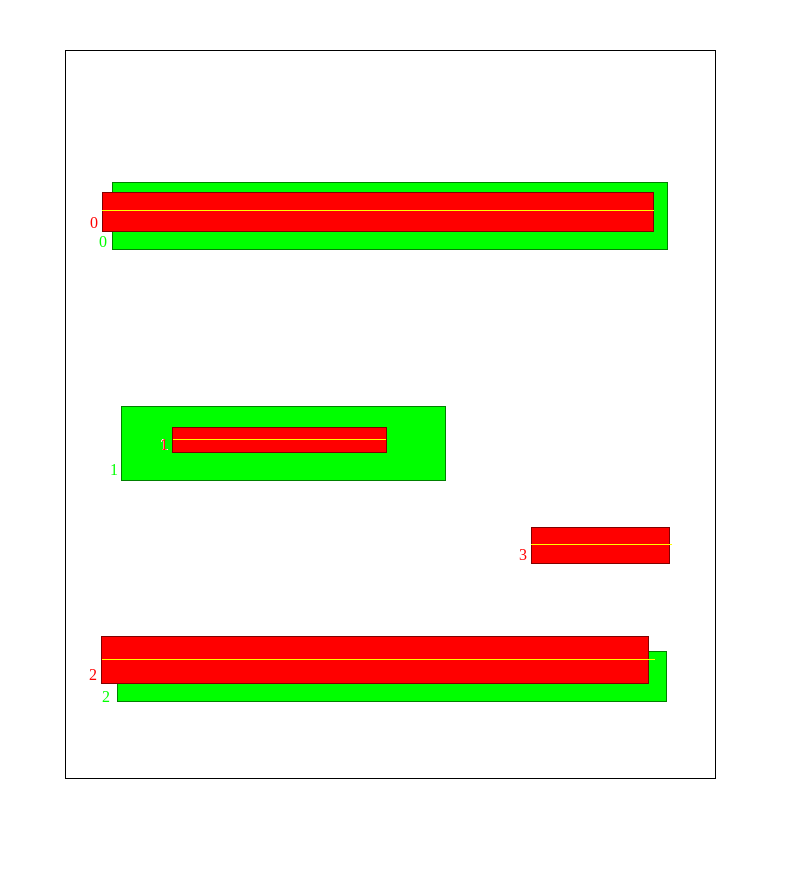
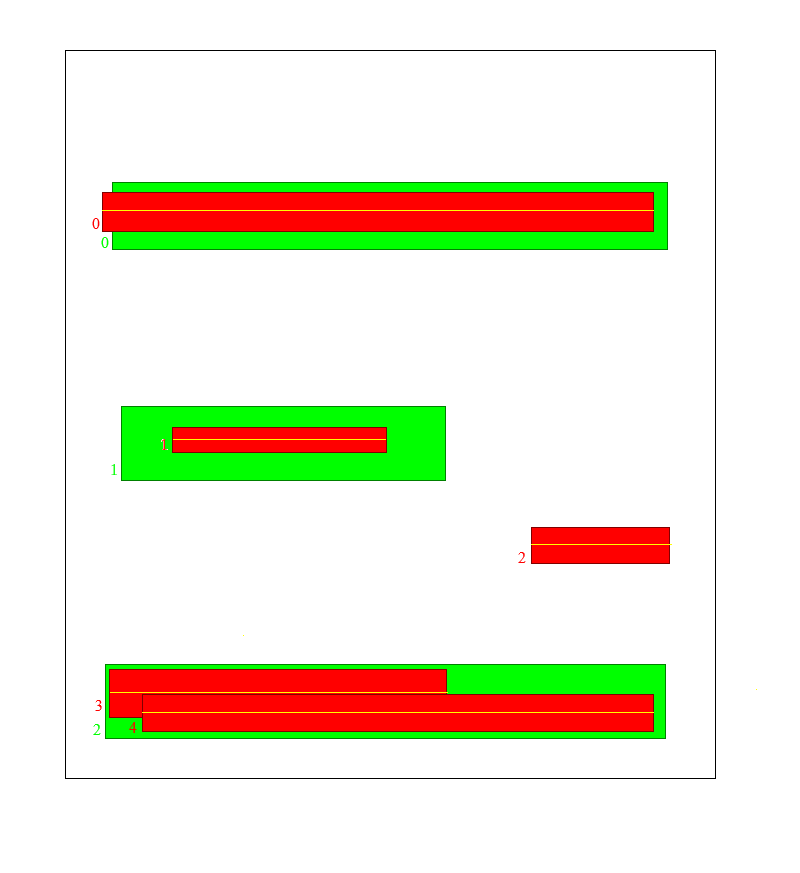
changes idk anymore

Changed region(s): [[0.125, 0.7113, 0.8438, 0.866], [0.0938, 0.2474, 0.125, 0.2784]]

diff --git a/_site/logt.html b/_site/logt.html
@@ -12,7 +12,9 @@
     <meta name="viewport" content="width=device-width, initial-scale=1">
 
 <!-- Begin Jekyll SEO tag v2.8.0 -->
+<title>LoGT</title>
 <meta name="generator" content="Jekyll v4.3.2" />
+<meta property="og:title" content="LoGT" />
 <meta property="og:locale" content="en_US" />
 <meta name="description" content="Figure 1. Jeronim chilling in an unusual caffe bar at the Nürnberg castle. This photo was taken with a Chaika 2 camera." />
 <meta property="og:description" content="Figure 1. Jeronim chilling in an unusual caffe bar at the Nürnberg castle. This photo was taken with a Chaika 2 camera." />
@@ -20,8 +22,9 @@
 <meta property="og:url" content="http://localhost:4000/logt.html" />
 <meta property="og:type" content="website" />
 <meta name="twitter:card" content="summary" />
+<meta property="twitter:title" content="LoGT" />
 <script type="application/ld+json">
-{"@context":"https://schema.org","@type":"WebPage","description":"Figure 1. Jeronim chilling in an unusual caffe bar at the Nürnberg castle. This photo was taken with a Chaika 2 camera.","publisher":{"@type":"Organization","logo":{"@type":"ImageObject","url":"http://localhost:4000/assets/img/ja.jpeg"}},"url":"http://localhost:4000/logt.html"}</script>
+{"@context":"https://schema.org","@type":"WebPage","description":"Figure 1. Jeronim chilling in an unusual caffe bar at the Nürnberg castle. This photo was taken with a Chaika 2 camera.","headline":"LoGT","publisher":{"@type":"Organization","logo":{"@type":"ImageObject","url":"http://localhost:4000/assets/img/ja.jpeg"}},"url":"http://localhost:4000/logt.html"}</script>
 <!-- End Jekyll SEO tag -->
 
     <link rel="stylesheet" href="/assets/css/style.css?v=">
@@ -117,23 +120,23 @@ I will try to explain this code here</p>
 <h2 id="example">Example</h2>
 
 <p>Consider an example like this: green are the ground truth bounding boxes, and red are your predicitons. They are indexed with numbers so it’s more intuitive to follow the rows and columns.
-<img src="./assets/img/logt_demo1.png" alt="shelves" /></p>
+<img src="./assets/img/logt_demo1.png" alt="shelves" />
+After the algorithm is run, our LoGT matrix would look like this:</p>
+
+\[\begin{bmatrix}
+1 &amp; 0 &amp; 0\\
+0 &amp; 1 &amp; 0\\
+0 &amp; 0 &amp; 0\\
+0 &amp; 0 &amp; 1\\
+0 &amp; 0 &amp; 1
+\end{bmatrix}\]
 
 <p>The above written pseudocode will behave like this</p>
 
 <p><img src="./assets/img/manimgodx.gif" alt="videozi" />
 <em>This gif visually emulates how the algorithm behaves</em></p>
 
-<p>After the algorithm is run, our LoGT matrix would look like this:</p>
-
-\[\begin{bmatrix}
-1 &amp; 0 &amp; 0\\
-0 &amp; 1 &amp; 0\\
-0 &amp; 0 &amp; 1\\
-0 &amp; 0 &amp; 0
-\end{bmatrix}\]
-
-<p>Notice that the last row is filled with zeroes, that is the false positive bounding box. We need to pad the matrix with null-columns until it is square.</p>
+<p>Notice that the third row is filled with zeroes, that is the false positive bounding box. Now We need to pad the matrix with null-columns until it is square. in order to lower the score for the false predictions.</p>
 <div class="language-python highlighter-rouge"><div class="highlight"><pre class="highlight"><code><span class="k">if</span> <span class="nf">len</span><span class="p">(</span><span class="n">P</span><span class="p">)</span> <span class="o">&gt;</span> <span class="nf">len</span><span class="p">(</span><span class="n">G</span><span class="p">):</span>
     <span class="n">LoGT_matrix</span> <span class="o">=</span> <span class="nf">concat</span><span class="p">((</span><span class="n">LoGT_matrix</span><span class="p">,</span> <span class="n">torch</span><span class="p">.</span><span class="nf">zeros</span><span class="p">((</span><span class="n">P</span><span class="p">.</span><span class="n">shape</span><span class="p">[</span><span class="mi">0</span><span class="p">],</span> <span class="n">P</span><span class="p">.</span><span class="n">shape</span><span class="p">[</span><span class="mi">0</span><span class="p">]</span> <span class="o">-</span> <span class="n">G</span><span class="p">.</span><span class="n">shape</span><span class="p">[</span><span class="mi">0</span><span class="p">]),</span> <span class="n">dtype</span><span class="o">=</span><span class="n">LoGT_matrix</span><span class="p">.</span><span class="n">dtype</span><span class="p">,</span> <span class="n">device</span><span class="o">=</span><span class="n">LoGT_matrix</span><span class="p">.</span><span class="n">device</span><span class="p">)),</span> <span class="n">dim</span><span class="o">=</span><span class="mi">1</span><span class="p">)</span>
 </code></pre></div></div>
@@ -141,20 +144,22 @@ I will try to explain this code here</p>
 <p>#TODO: multiple predictions of the same shelf -&gt; post processing</p>
 
 \[\begin{bmatrix}
-1 &amp; 0 &amp; 0 &amp; 0\\
-0 &amp; 1 &amp; 0 &amp; 0\\
-0 &amp; 0 &amp; 1 &amp; 0\\
-0 &amp; 0 &amp; 0 &amp; 0
+1 &amp; 0 &amp; 0 &amp; 0 &amp; 0\\
+0 &amp; 1 &amp; 0 &amp; 0 &amp; 0\\
+0 &amp; 0 &amp; 0 &amp; 0 &amp; 0\\
+0 &amp; 0 &amp; 1 &amp; 0 &amp; 0\\
+0 &amp; 0 &amp; 1 &amp; 0 &amp; 0
 \end{bmatrix}\]
 
 <p>after this our matrix looks like this, in order to calculate the final LoGT score we just sum the columns and voila - we  have our LoGT vector.</p>
 
 \[\begin{bmatrix}
-1 &amp; 1 &amp; 1 &amp; 0\\
+1 &amp; 1 &amp; 1 &amp; 0 &amp; 0\\
 \end{bmatrix}\]
 
-<p>Final metric calculation is trivial, for this example here 
-\(LoGT= 0.75\)</p>
+<p>Final metric calculation is not trivial i guess #TODO, for this example here</p>
+
+\[LoGT= 0.66\]
 
 <p>#TODO: keep developing this as an eval metric with the goal of pruning object detection models which can be quite large</p>
 

diff --git a/_site/index.html b/_site/index.html
@@ -107,7 +107,7 @@
 
 <ul>
   <li>
-    <p><a href="./research.html">Some of my finished and still unfinished research</a></p>
+    <p><a href="./research.html">Some of my still unfinished research</a></p>
   </li>
   <li>
     <p><a href="./hobby_projects.html">Some of my hobby projects</a>.</p>
@@ -137,10 +137,14 @@
 
 <h3 id="cool-things-on-the-internet">Cool things on the internet</h3>
 <ul>
+  <li><a href="https://twitch.tv/watchmeforever">Watchmeforever AI generated TV show</a></li>
+  <li><a href="https://gist.github.com/coolaj86/6f4f7b30129b0251f61fa7baaa881516">DAN adversarial attacks on chatGPT</a> - idk wtf</li>
+  <li><a href="http://blog.ezyang.com/">ezyang blog</a></li>
+  <li><a href="https://jspaint.app">jspaint</a></li>
   <li><a href="https://www.vaisko.com">Vaisko</a></li>
   <li><a href="https://smile.rip/">Smile.rip</a></li>
-  <li><a href="https://twitch.tv/watchmeforever">Watchmeforever AI generated TV show</a></li>
-  <li><a href="https://gist.github.com/coolaj86/6f4f7b30129b0251f61fa7baaa881516">DAN adversarial attacks on chatGPT</a> - idk what the hell is going on here</li>
+  <li><a href="www.marulianus.hr">marulianus.hr</a></li>
+  <li><a href="https://youtu.be/WSCm8yAxBr8">Auralnauts</a></li>
 </ul>
 
 <h3 id="life-goals">Life Goals</h3>

diff --git a/logt.md b/logt.md
@@ -1,5 +1,6 @@
 ---
 layout: default
+title: LoGT
 ---
 
 [Home](./index.html) / [Research](./research.html)
